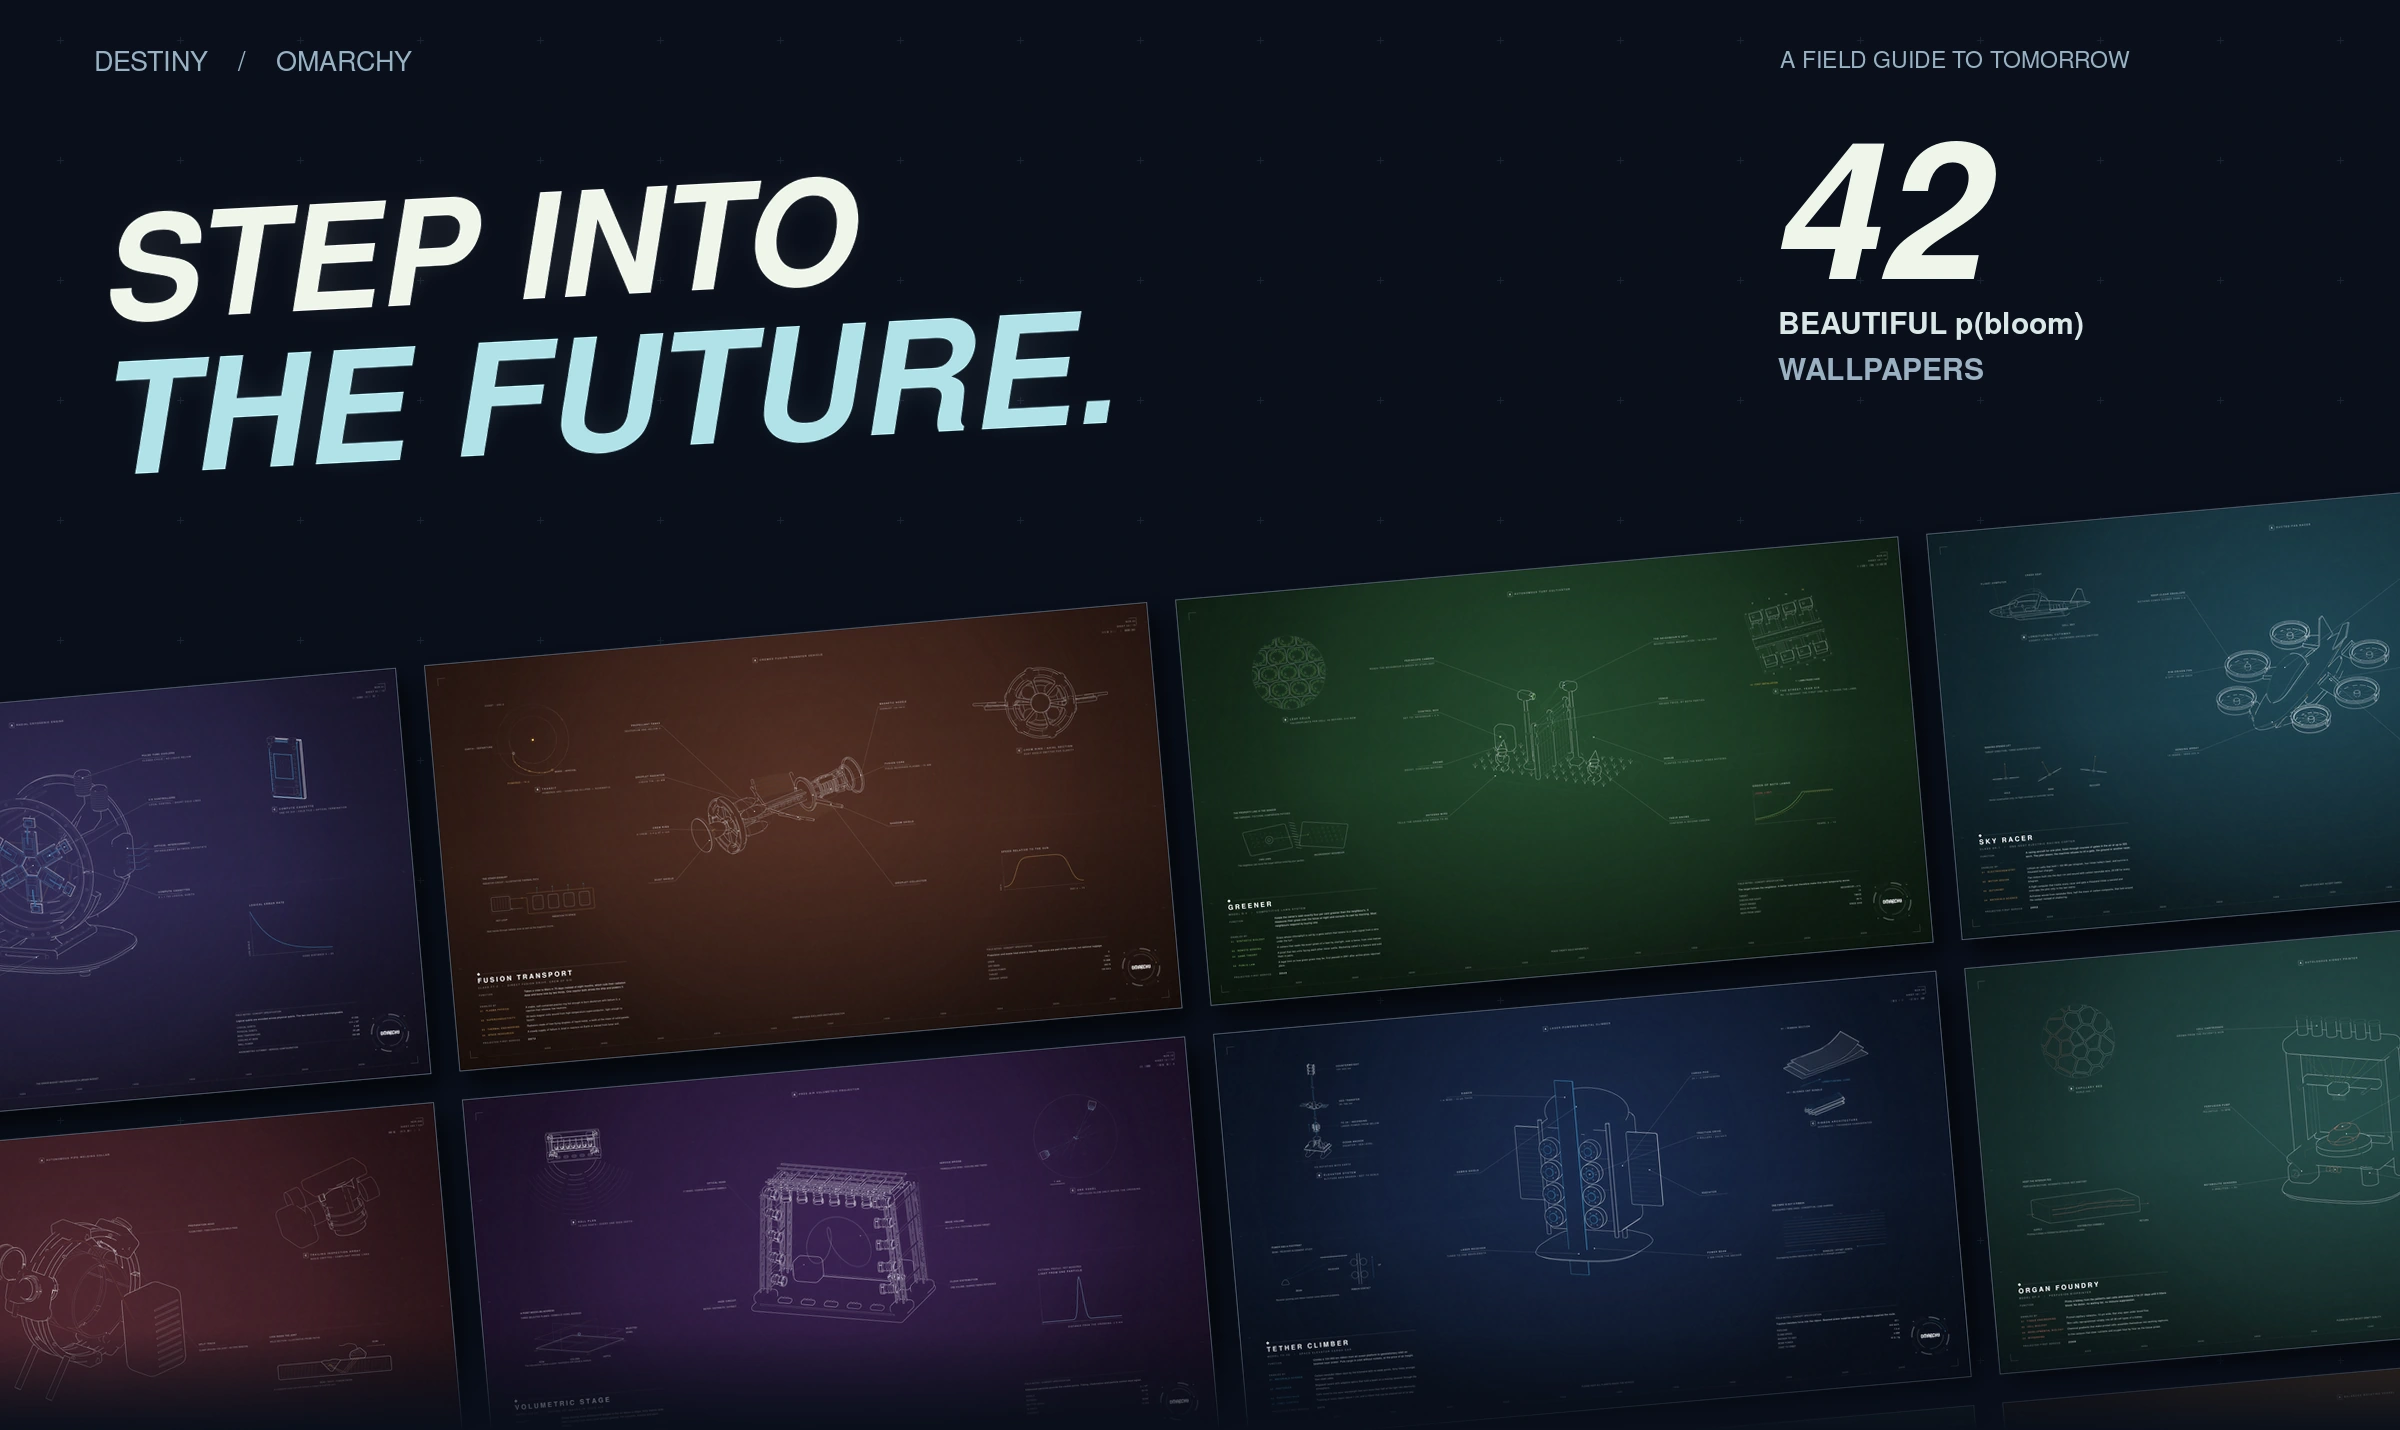
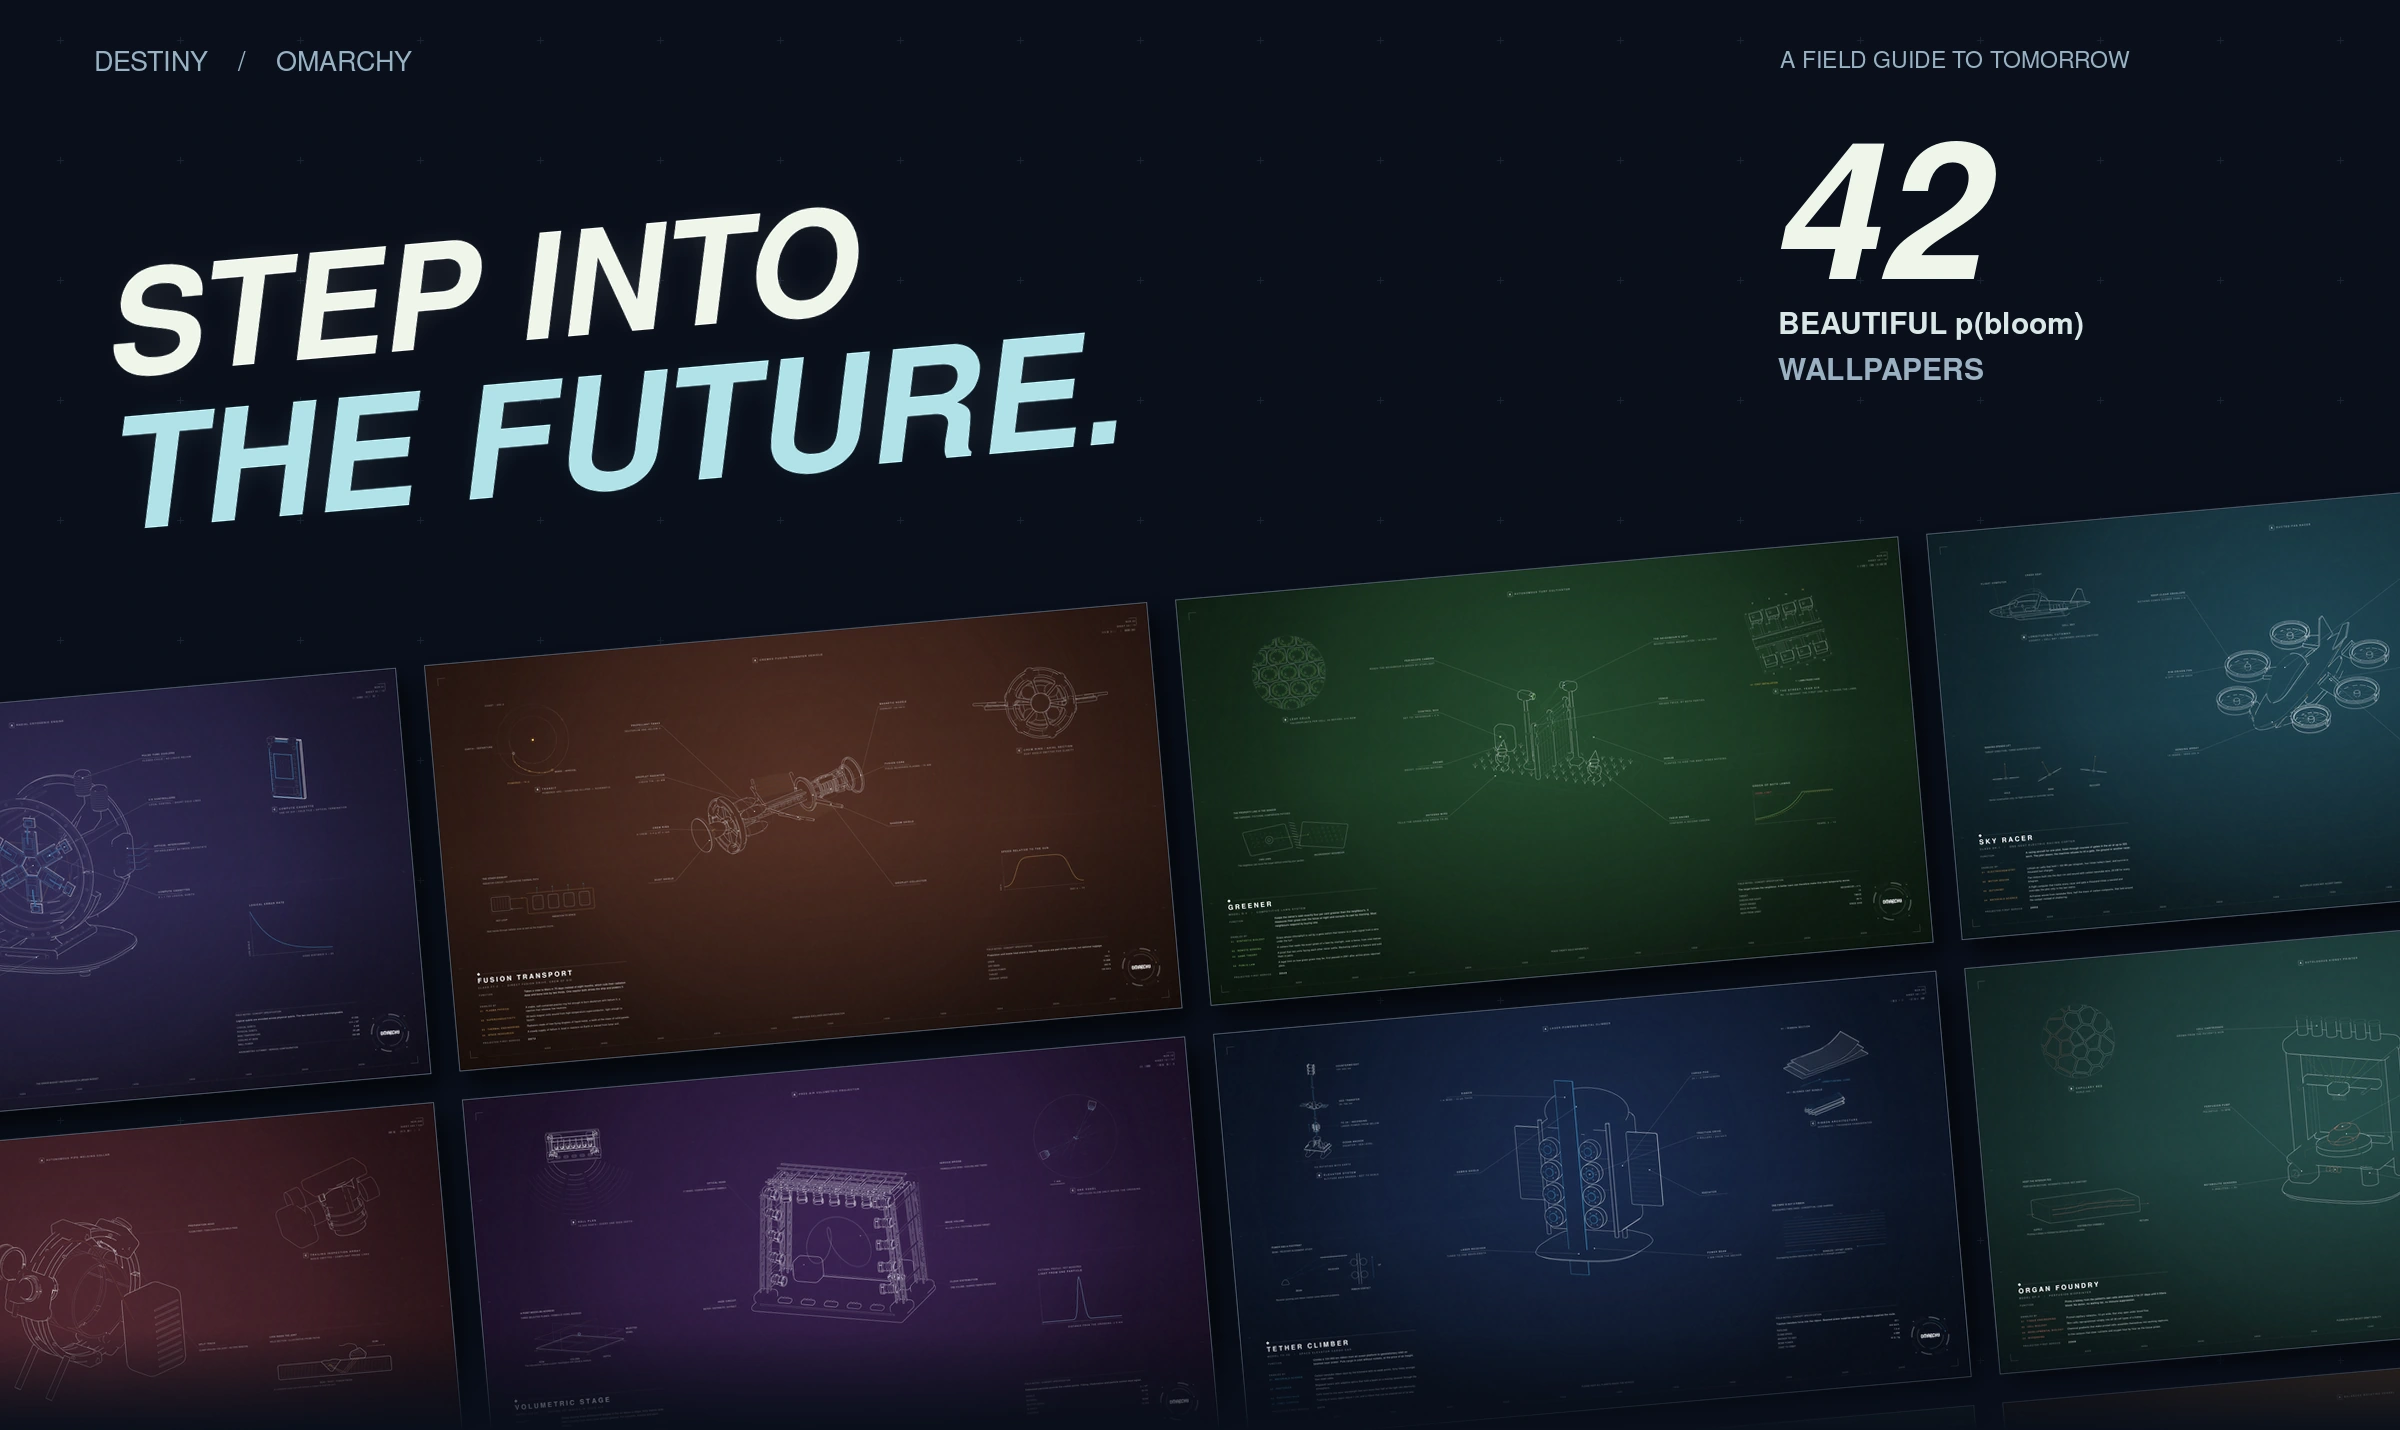
Align collage headline and wallpaper tilt

Changed region(s): [[0.0312, 0.1231, 0.4688, 0.3692]]

diff --git a/tools/make_readme_collage.py b/tools/make_readme_collage.py
@@ -6,6 +6,7 @@ from PIL import Image, ImageDraw, ImageFont, ImageFilter
 ROOT = Path(__file__).resolve().parents[1]
 OUT = ROOT / 'previews/wallpaper-collage.webp'
 W, H = 2400, 1430
+TILT_DEGREES = 5
 FONT = Path('/usr/share/fonts/gsfonts')
 def font(size, face='NimbusSans-Regular.otf'):
     return ImageFont.truetype(str(FONT / face), size)
@@ -39,7 +40,7 @@ for i, name in enumerate(names):
     wall.alpha_composite(shadow, (x-12,y-8))
     wall.alpha_composite(sheet, (x,y))
     ImageDraw.Draw(wall).rectangle((x,y,x+tw-1,y+th-1), outline='#485261',width=1)
-wall = wall.rotate(5, resample=Image.Resampling.BICUBIC, expand=True)
+wall = wall.rotate(TILT_DEGREES, resample=Image.Resampling.BICUBIC, expand=True)
 canvas.alpha_composite(wall, (-360, 435))
 
 # Typography stays deterministic; only its light has a restrained bloom.
@@ -47,7 +48,7 @@ headline = Image.new('RGBA', (1600, 355))
 hd = ImageDraw.Draw(headline)
 hd.text((10, 0), 'STEP INTO', font=font(145,'NimbusSans-BoldItalic.otf'), fill='#eff5ea')
 hd.text((0, 145), 'THE FUTURE.', font=font(155,'NimbusSans-BoldItalic.otf'), fill='#b1e2e8')
-headline = headline.rotate(3, resample=Image.Resampling.BICUBIC, expand=True)
+headline = headline.rotate(TILT_DEGREES, resample=Image.Resampling.BICUBIC, expand=True)
 glow = headline.filter(ImageFilter.GaussianBlur(15))
 glow.putalpha(glow.getchannel('A').point(lambda a: int(a*.20)))
 canvas.alpha_composite(glow,(83,107))
